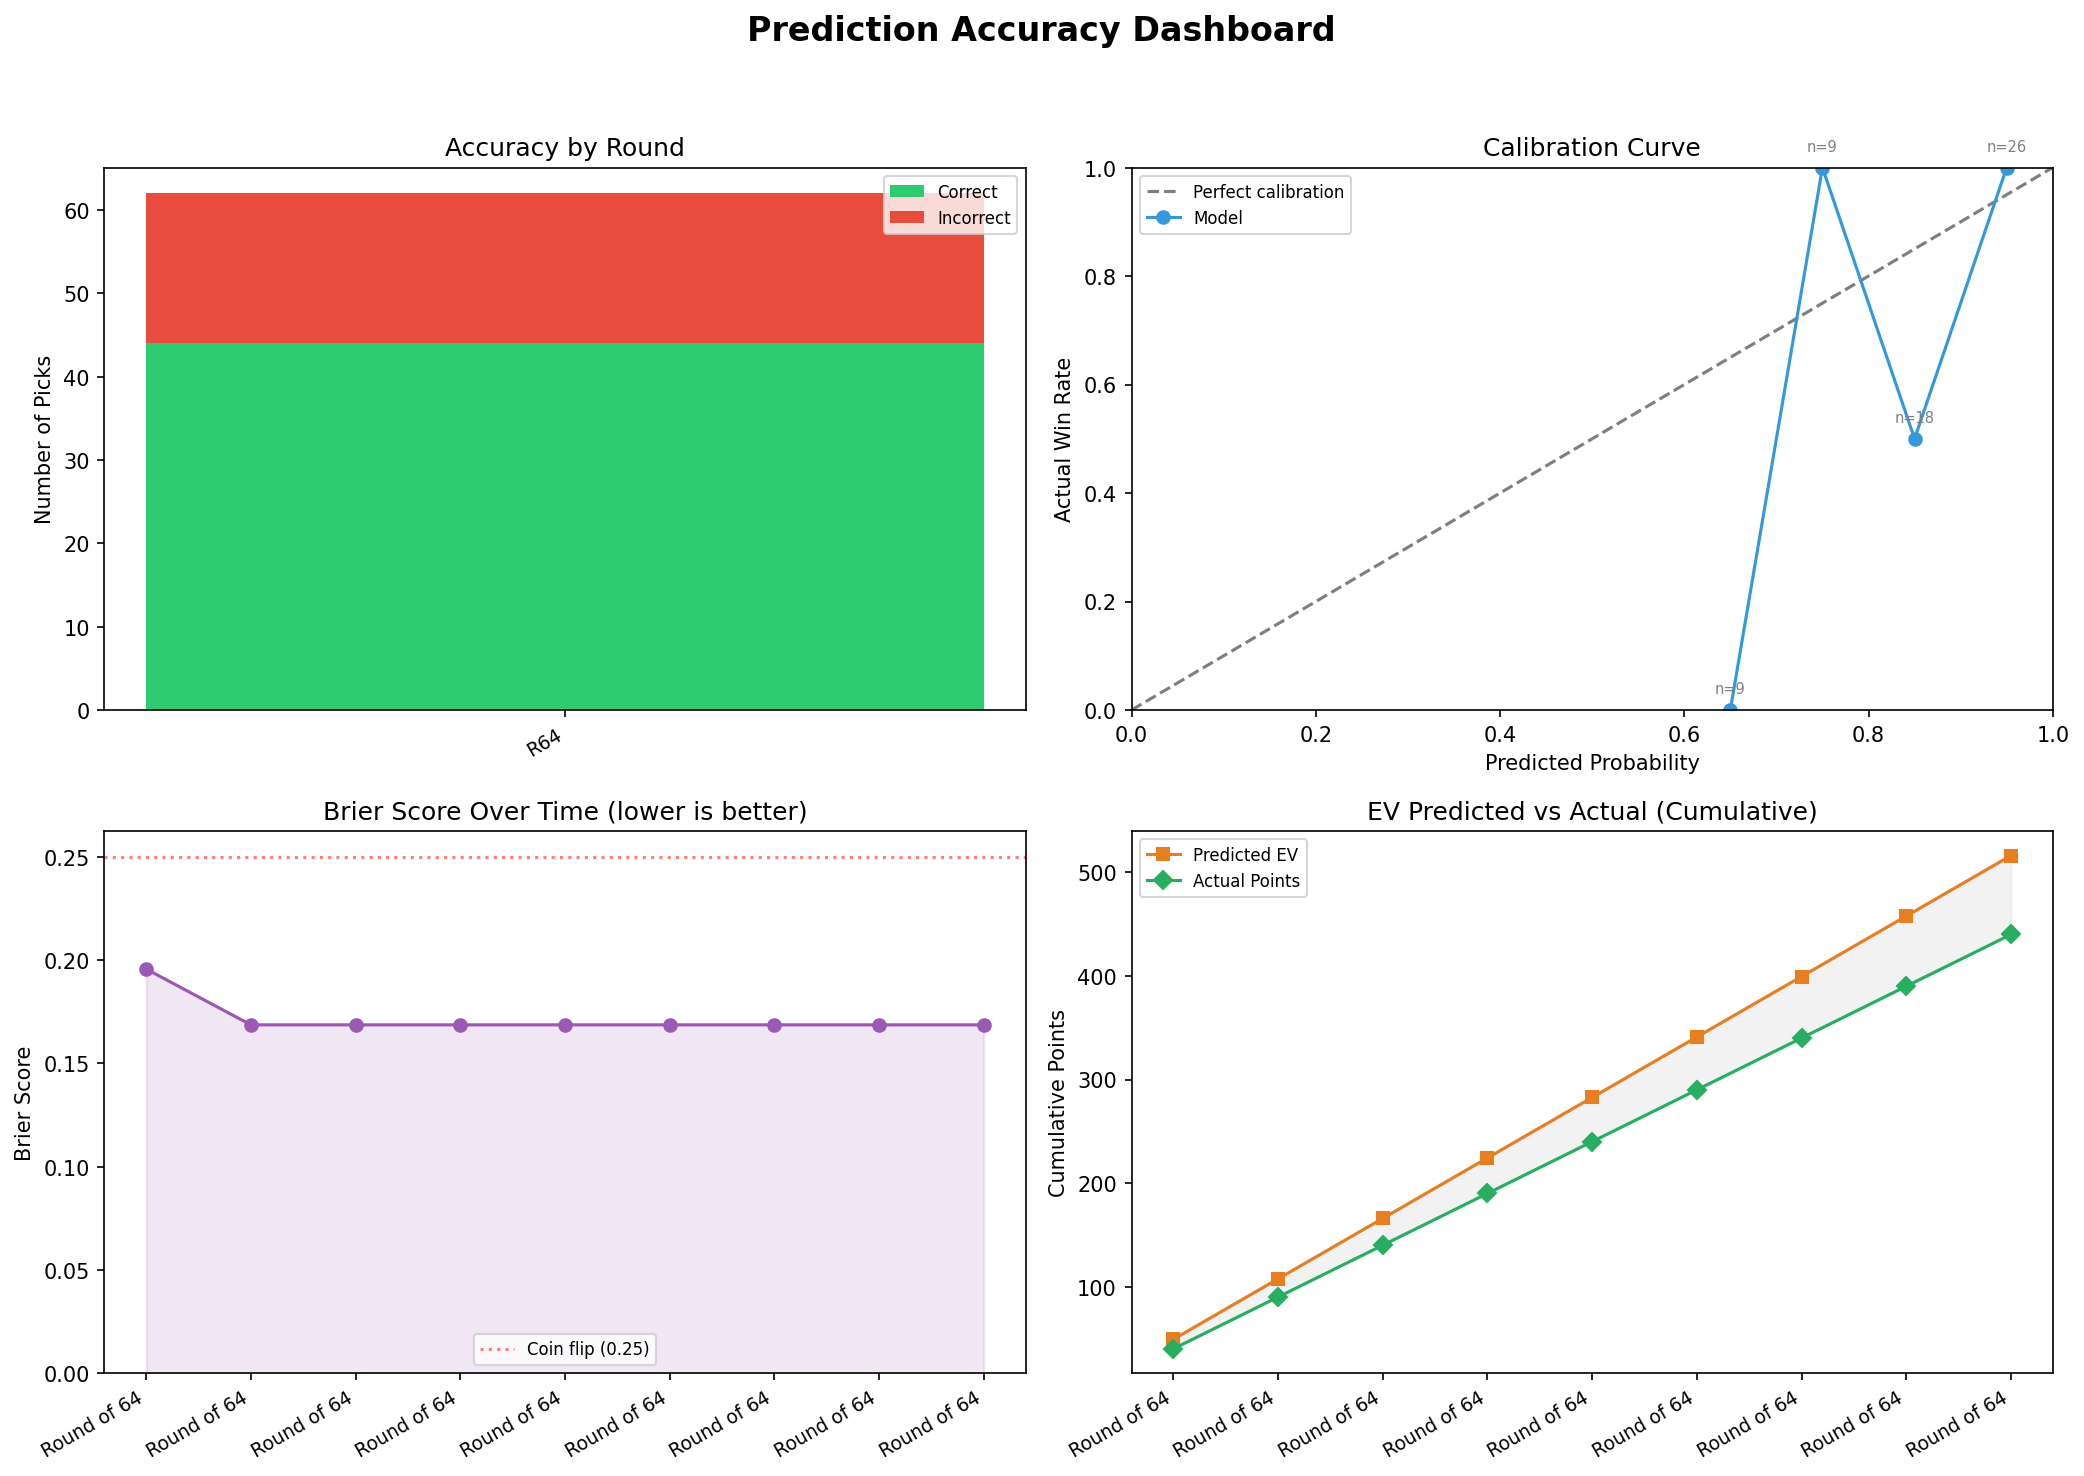
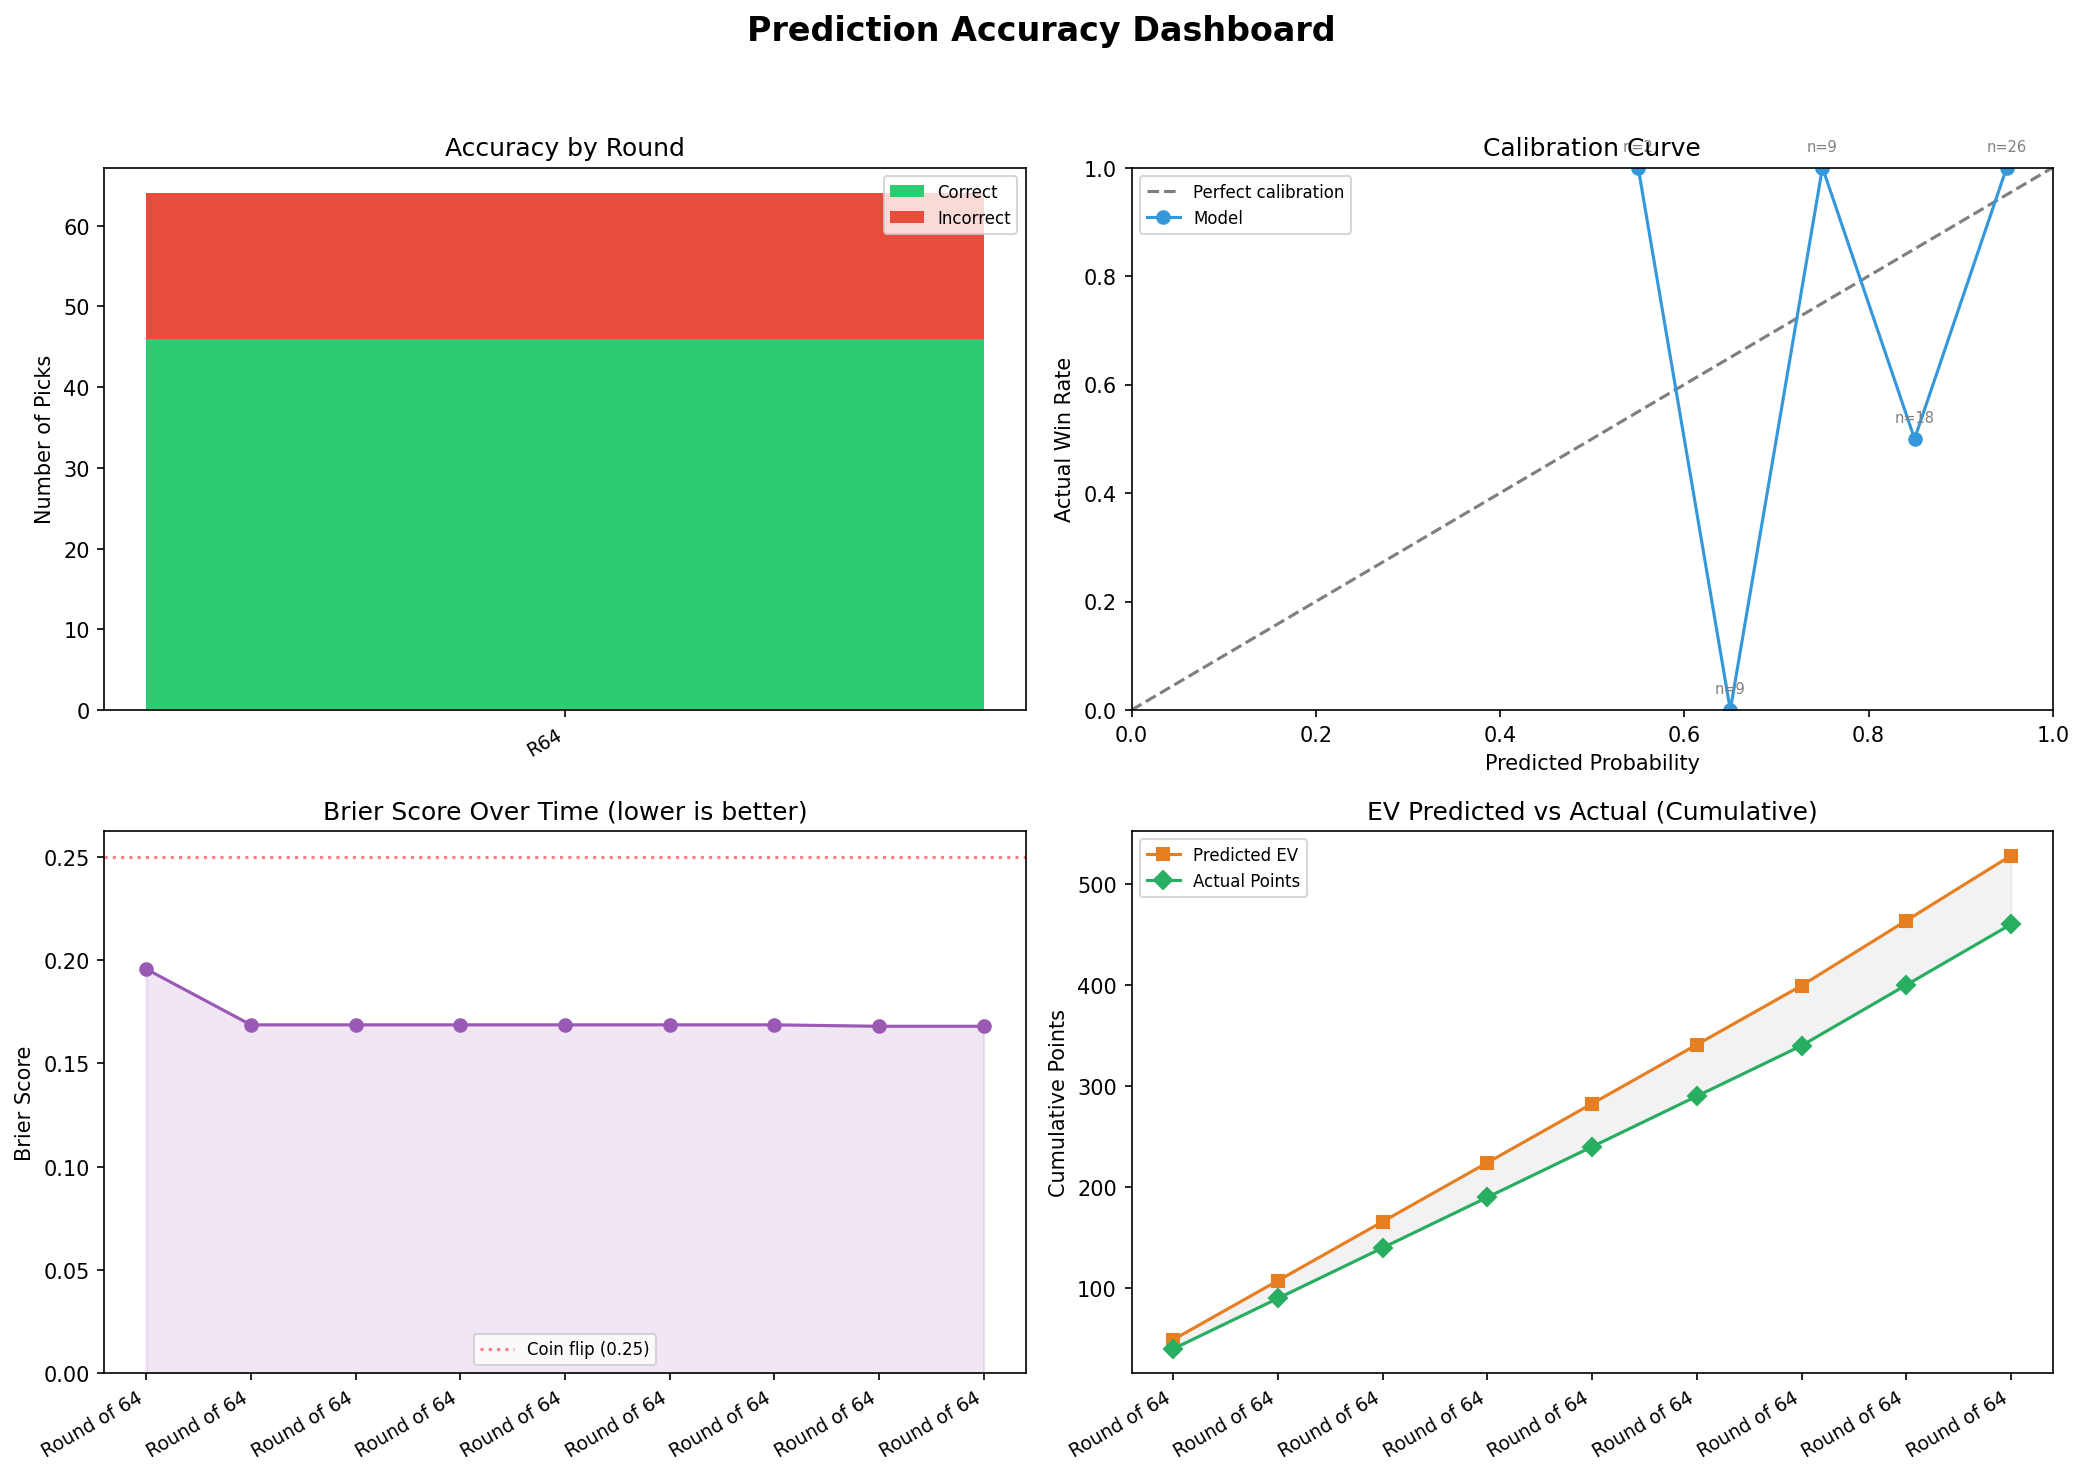
fix accuracy: resolve long-format prediction IDs to game IDs
predictions_at_time used two ID formats: short (E1, S3) matching
completed games, and long (M_Round of 64_Michigan) that never
matched. Build a (round, team) index from completed games to
resolve long-format IDs at lookup time. This ensures future R32+
games will be tracked correctly when their predictions use the
long format.

diff --git a/scripts/refresh/accuracy.py b/scripts/refresh/accuracy.py
@@ -497,21 +497,6 @@ def track_accuracy(state_path=None, log_path=None):
             with open(state_path, "r") as f:
                 state = json.load(f)
 
-            # Support both flat "predictions" list and nested "predictions_at_time" dict
-            predictions = state.get("predictions", [])
-            if not predictions:
-                pat = state.get("predictions_at_time", {})
-                for round_name_key, games in pat.items():
-                    for game_id, pred in games.items():
-                        predictions.append(
-                            {
-                                "game_id": game_id,
-                                "predicted_winner": pred["predicted_winner"],
-                                "predicted_prob": pred.get("win_prob", 0.5),
-                                "round": round_name_key,
-                            }
-                        )
-
             completed = state.get("completed_games", [])
             # Ensure higher_seed_won is set for upset detection
             for g in completed:
@@ -523,6 +508,35 @@ def track_accuracy(state_path=None, log_path=None):
                         g["higher_seed_won"] = g["winner"] == higher_seed
                     else:
                         g["higher_seed_won"] = True  # default
+
+            # Support both flat "predictions" list and nested "predictions_at_time" dict
+            predictions = state.get("predictions", [])
+            if not predictions:
+                pat = state.get("predictions_at_time", {})
+                # Build team→game_id index from completed games for resolving
+                # long-format prediction IDs (e.g. "M_Round of 64_Michigan")
+                _team_to_gid = {}
+                for g in completed:
+                    _team_to_gid[(g.get("round", ""), g.get("team_a", ""))] = g["game_id"]
+                    _team_to_gid[(g.get("round", ""), g.get("team_b", ""))] = g["game_id"]
+
+                for round_name_key, games in pat.items():
+                    for pred_id, pred in games.items():
+                        # Resolve long-format IDs to completed game IDs
+                        game_id = pred_id
+                        if pred_id not in {g["game_id"] for g in completed}:
+                            team = pred["predicted_winner"]
+                            resolved = _team_to_gid.get((round_name_key, team))
+                            if resolved:
+                                game_id = resolved
+                        predictions.append(
+                            {
+                                "game_id": game_id,
+                                "predicted_winner": pred["predicted_winner"],
+                                "predicted_prob": pred.get("win_prob", 0.5),
+                                "round": round_name_key,
+                            }
+                        )
 
             if predictions and completed:
                 summary = tracker.log_run(predictions, completed)
